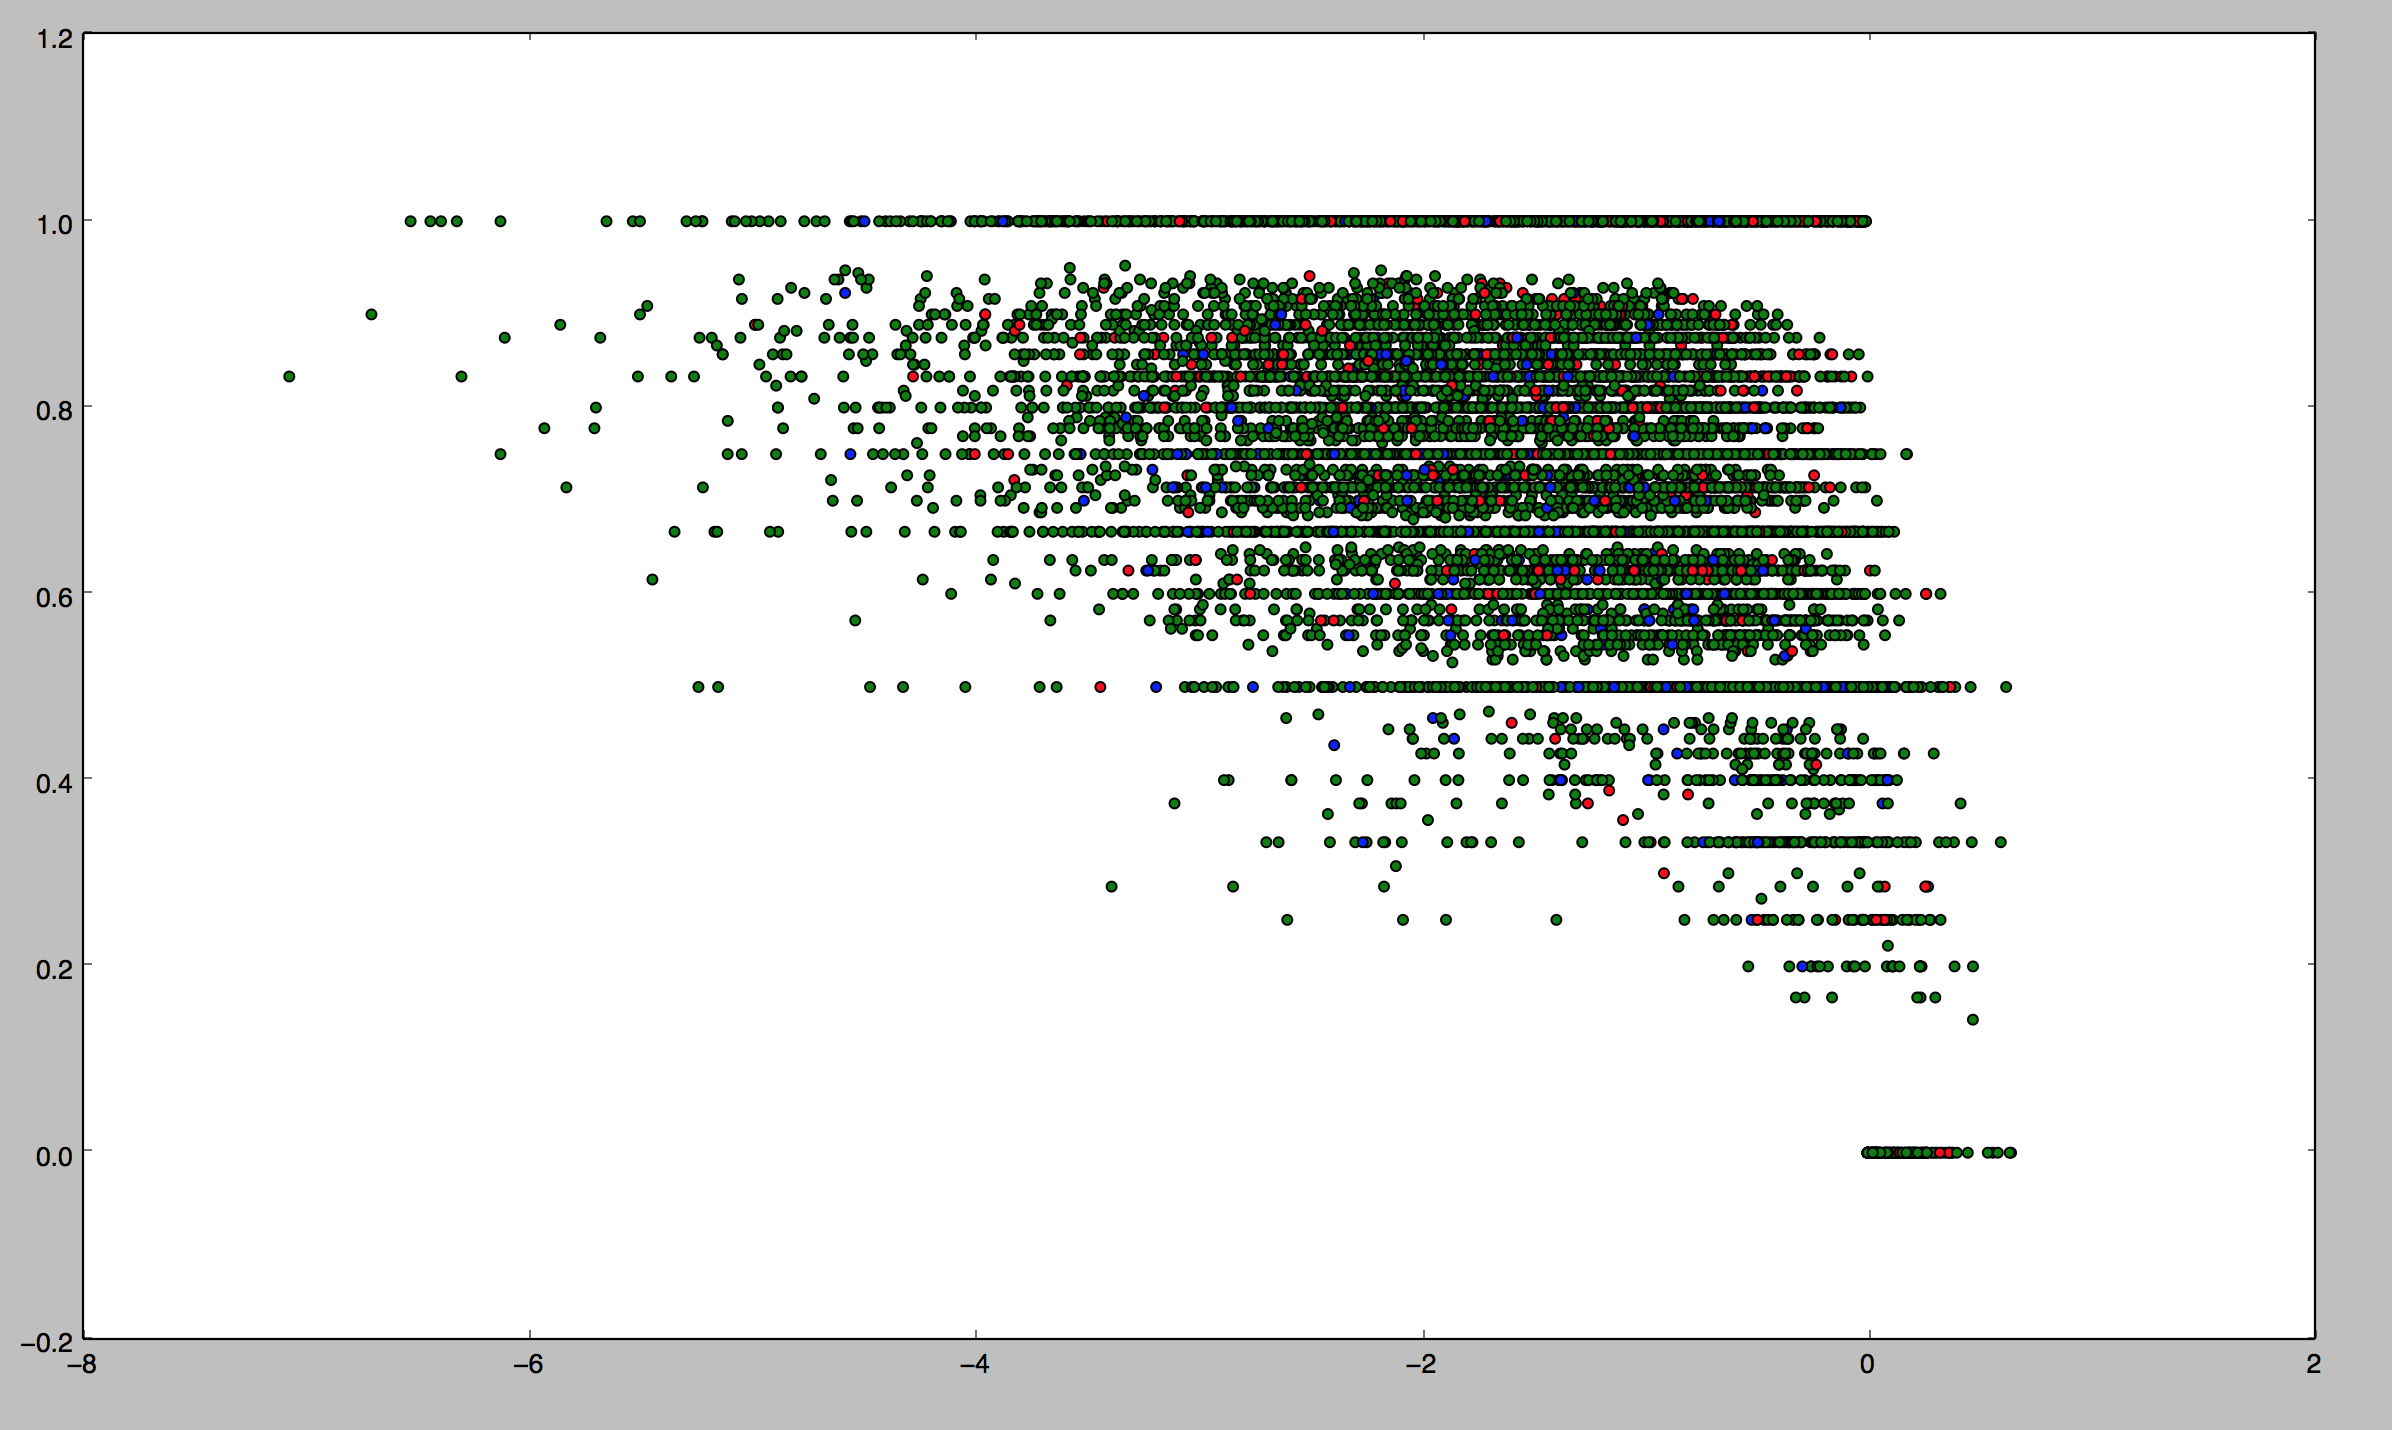
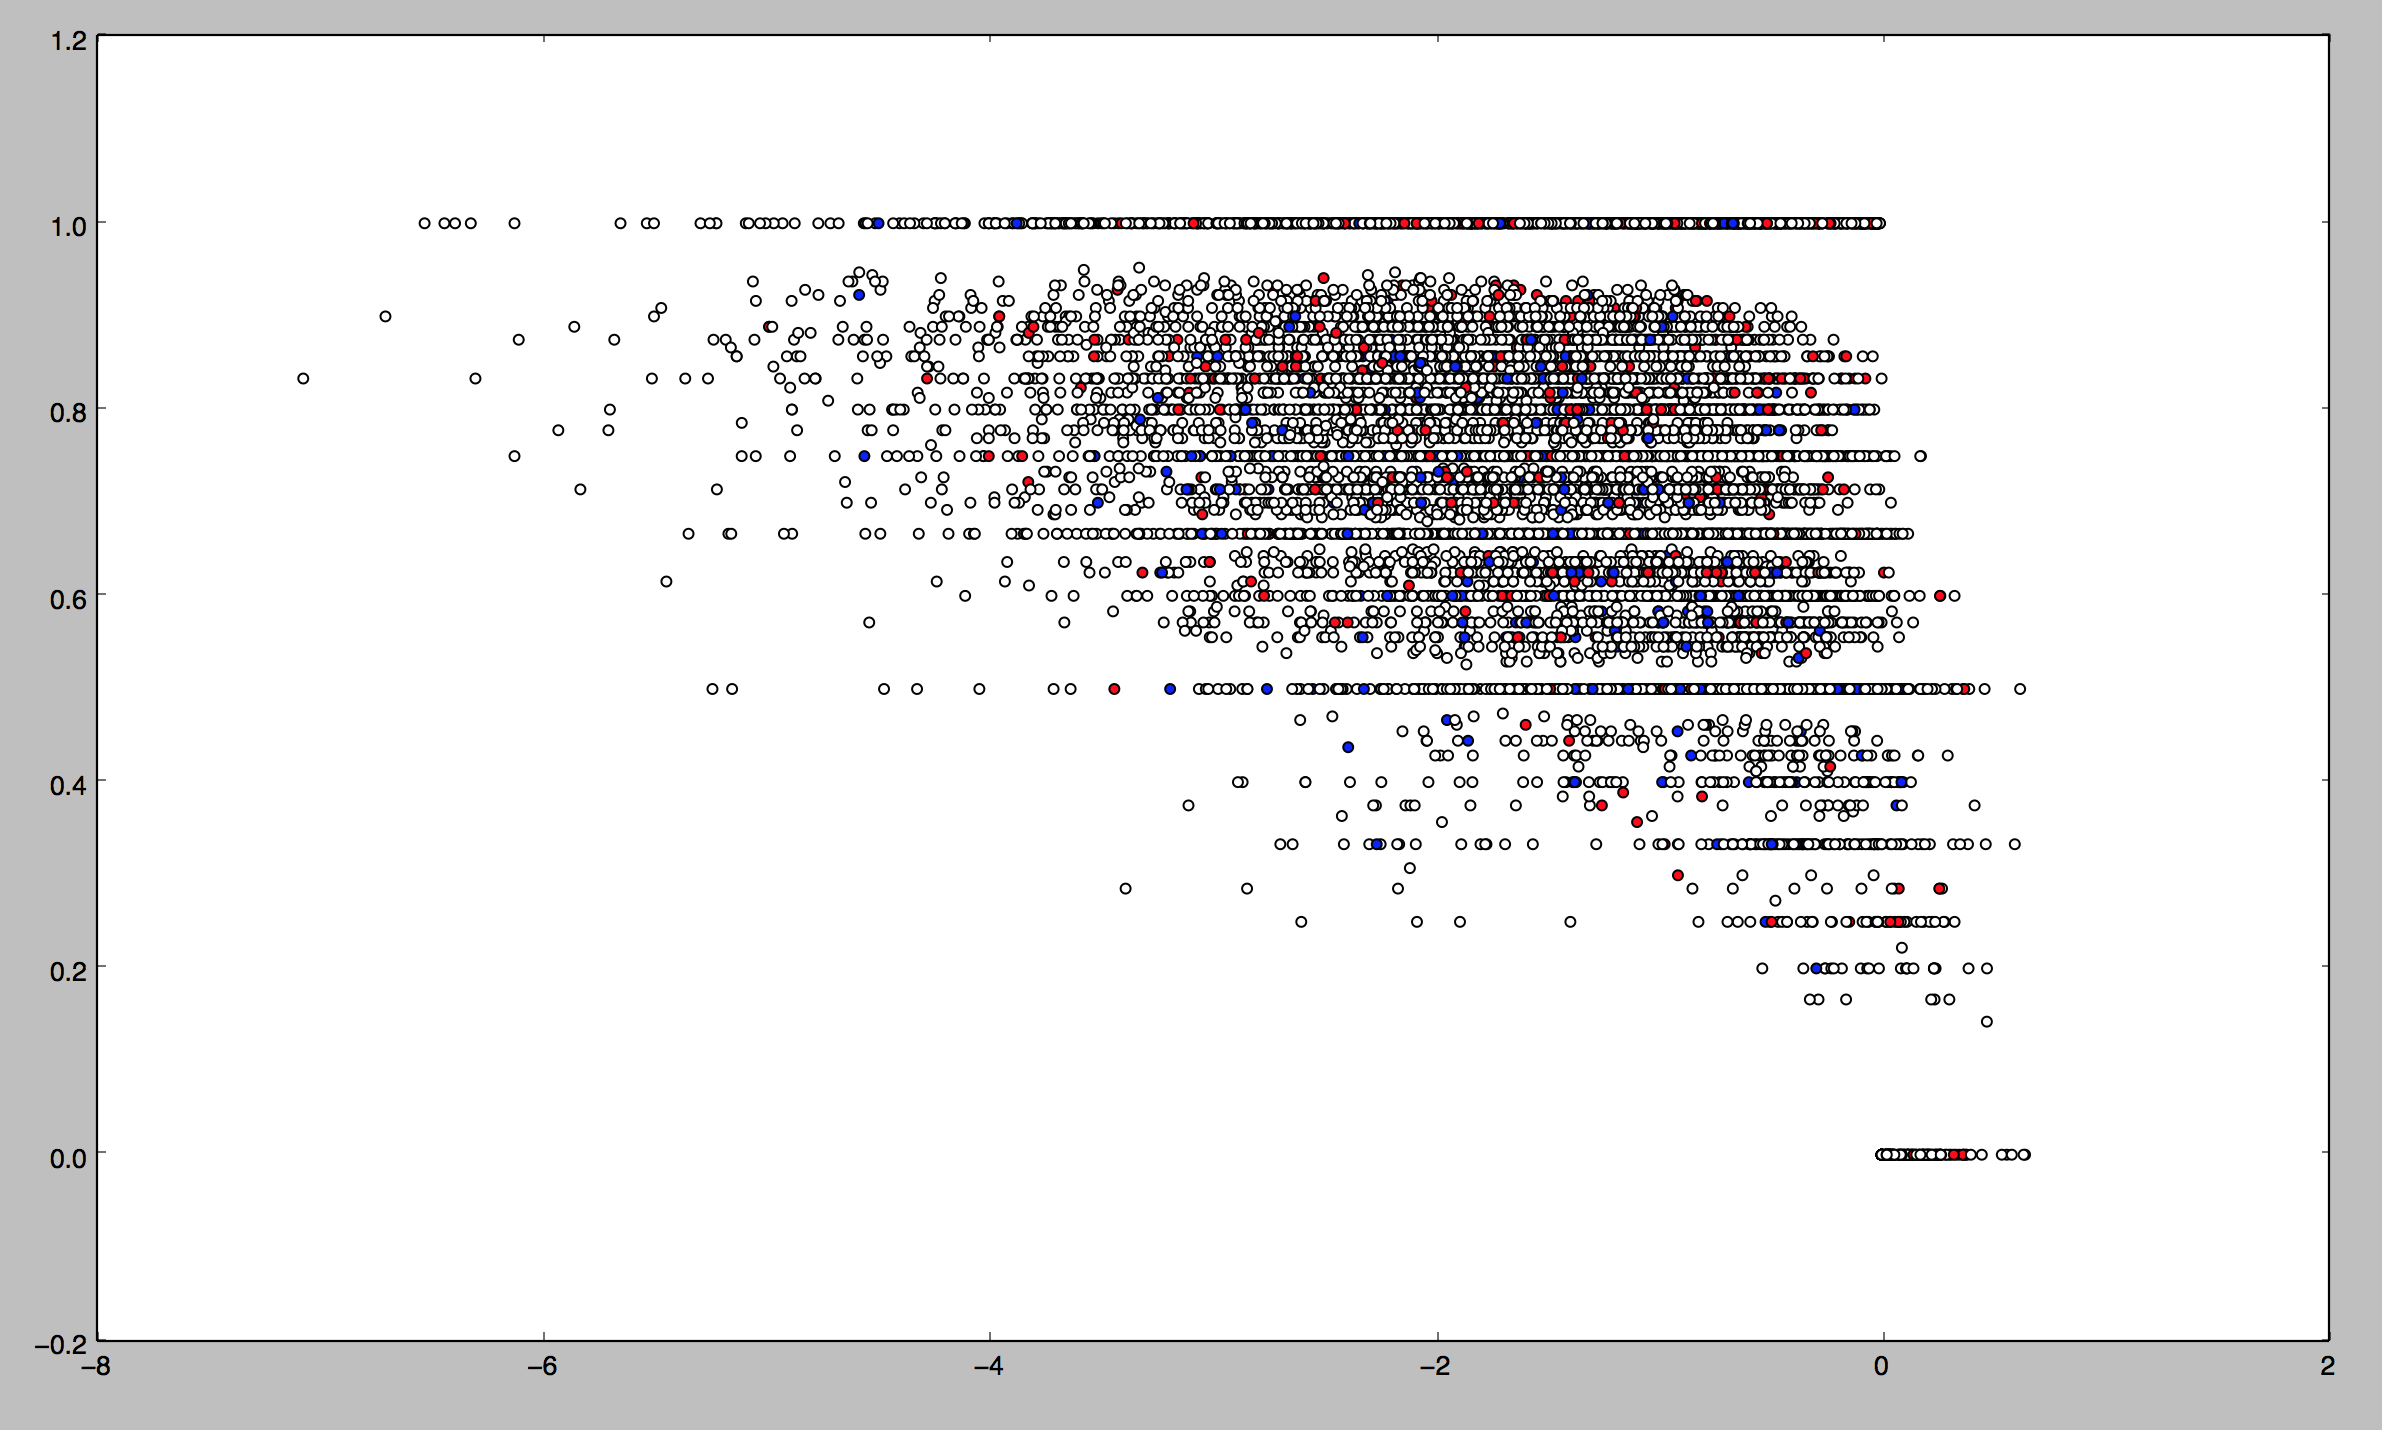
Final draft of third QandA post

diff --git a/_posts/2015-05-07-qanda-tweets3.md b/_posts/2015-05-07-qanda-tweets3.md
@@ -105,7 +105,7 @@ So using a list of right-wing associated words like
 
     Coalition,coalition,Liberal,liberal,libs,Libs,Abbott,abbott,abbot,Abbot,Abott,abott,Howard,howard,Robb,robb,Andrew,andrew,Menzies,menzies,pm,PM,prime minister,Prime Minister,Tony,tony,Arthur,arthur,Sinodinos,sinodinos,tim,Tim,fischer,Fischer
 
-and a similar list for left-words, we can color the tweets again according to whether they are left-aligned (negative with a right entity or positive with a left entity) which are red, right-aligned (vice versa) which are blue, or neither, which are green. 
+and a similar list for left-words, we can color the tweets again according to whether they are left-aligned (negative with a right entity or positive with a left entity) which are red, right-aligned (vice versa) which are blue, or neither, which are white. 
 
 ![Alignment scatter](https://github.com/clintonboys/clintonboys.github.io/blob/master/_posts/alignment.png?raw=true)
 
@@ -114,6 +114,6 @@ and a similar list for left-words, we can color the tweets again according to wh
     Total tweets: 10766
     [Finished in 49.1s]
 
-This gives 62% of tweets where an entity can be identified as left-wing, and 38% as right-wing. This seems fairly believable to me (note only 11% of tweets have an entity identified, hence all the green in the picture). 
+This gives 62% of tweets where an entity can be identified as left-wing, and 38% as right-wing. This seems fairly believable to me (note only 11% of tweets have an entity identified, hence all the white in the picture). Note it doesn't look like there's much of a relationship between right-left and positive-negative. 
 
 I will remark finally that, although this model isn't great, it can easily be improved through the "unreasonable effectiveness of data": all this needs to get much better is more human classification of tweets, and a better input file for entity recognition. 
